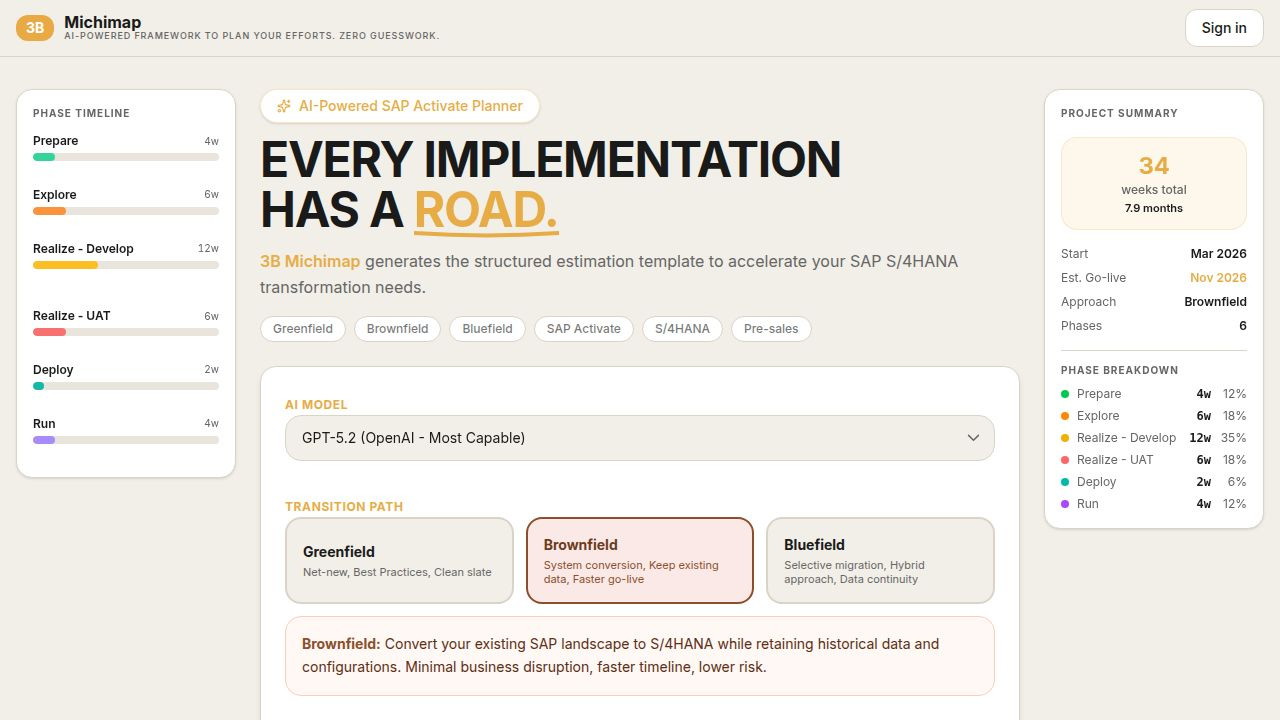
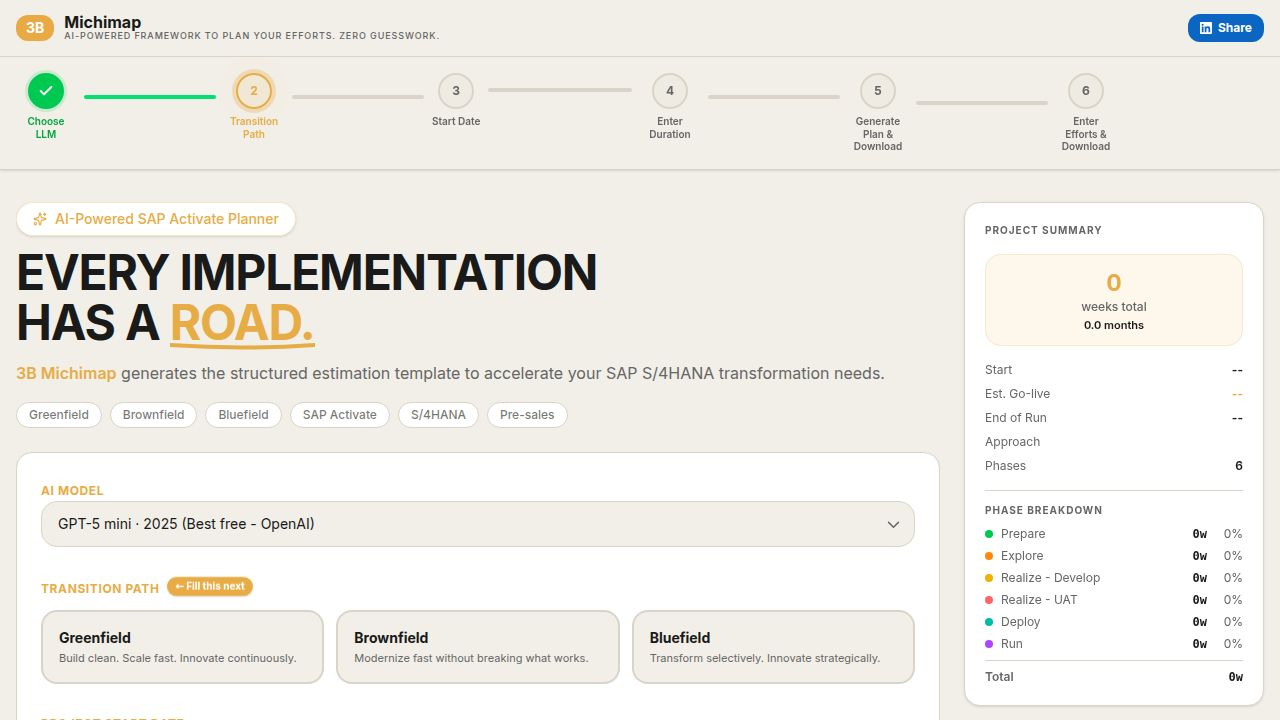
Add visual cues and step locking for guided project planning
Enhance UI to include pulsing active step indicators in the header and dynamic "Fill this next" badges on relevant form sections, while also implementing a hard lock on the Phase Durations section until a project start date is selected.

Replit-Commit-Author: Agent
Replit-Commit-Session-Id: a60236ce-8429-4dff-99cd-e8355c56ddc6
Replit-Commit-Checkpoint-Type: full_checkpoint
Replit-Commit-Event-Id: 16213692-5582-4c17-b918-09e82500bcb9
Replit-Commit-Screenshot-Url: https://storage.googleapis.com/screenshot-production-us-central1/cc1af301-8499-4159-9769-03e1a62c4dc9/a60236ce-8429-4dff-99cd-e8355c56ddc6/Mco4ZkI
Replit-Helium-Checkpoint-Created: true

diff --git a/artifacts/michimap/src/pages/home.tsx b/artifacts/michimap/src/pages/home.tsx
@@ -437,13 +437,18 @@ export default function Home() {
                   return (
                     <div key={step.id} className="flex items-center flex-1 min-w-0">
                       <div className="flex flex-col items-center gap-1.5 shrink-0">
-                        <div className={cn(
-                          "w-9 h-9 rounded-full flex items-center justify-center text-xs font-bold border-2 transition-all duration-300",
-                          done   ? "bg-green-500 border-green-500 text-white shadow-[0_0_0_3px_rgba(34,197,94,0.18)]"
-                                 : active ? "border-primary text-primary bg-primary/10 shadow-[0_0_0_3px_rgba(233,169,68,0.18)]"
-                                         : "border-border text-muted-foreground bg-muted/40"
-                        )}>
-                          {done ? <Check className="w-4 h-4 stroke-[3]" /> : step.id}
+                        <div className="relative">
+                          {active && (
+                            <span className="absolute inset-0 rounded-full animate-ping bg-primary/30 pointer-events-none" />
+                          )}
+                          <div className={cn(
+                            "relative w-9 h-9 rounded-full flex items-center justify-center text-xs font-bold border-2 transition-all duration-300",
+                            done   ? "bg-green-500 border-green-500 text-white shadow-[0_0_0_3px_rgba(34,197,94,0.18)]"
+                                   : active ? "border-primary text-primary bg-primary/10 shadow-[0_0_0_4px_rgba(233,169,68,0.30)]"
+                                           : "border-border text-muted-foreground bg-muted/40"
+                          )}>
+                            {done ? <Check className="w-4 h-4 stroke-[3]" /> : step.id}
+                          </div>
                         </div>
                         <span className={cn(
                           "text-[10px] font-semibold text-center leading-tight max-w-[60px] transition-colors duration-200",
@@ -539,7 +544,14 @@ export default function Home() {
 
                   {/* TRANSITION PATH */}
                   <div className="space-y-3">
-                    <label className="text-xs font-bold text-primary uppercase tracking-wider">Transition Path</label>
+                    <div className="flex items-center gap-2 flex-wrap">
+                      <label className="text-xs font-bold text-primary uppercase tracking-wider">Transition Path</label>
+                      {!transitionPath && (
+                        <span className="inline-flex items-center gap-1 text-[10px] font-bold text-white bg-primary px-2 py-0.5 rounded-full animate-bounce shadow-sm">
+                          ← Fill this next
+                        </span>
+                      )}
+                    </div>
                     <div className="grid grid-cols-3 gap-3">
                       {(Object.keys(TRANSITION_PATHS) as GeneratePlanRequestTransitionPath[]).map(pathId => {
                         const path = TRANSITION_PATHS[pathId];
@@ -580,14 +592,42 @@ export default function Home() {
 
                   {/* PROJECT START DATE */}
                   <div className="space-y-2">
-                    <label className="text-xs font-bold text-primary uppercase tracking-wider">Project Start Date</label>
+                    <div className="flex items-center gap-2 flex-wrap">
+                      <label className="text-xs font-bold text-primary uppercase tracking-wider">Project Start Date</label>
+                      {transitionPath && !projectStartDate && (
+                        <span className="inline-flex items-center gap-1 text-[10px] font-bold text-white bg-primary px-2 py-0.5 rounded-full animate-bounce shadow-sm">
+                          ← Fill this next
+                        </span>
+                      )}
+                    </div>
                     <CalendarPicker value={projectStartDate} onChange={setProjectStartDate} />
                   </div>
 
                   {/* PHASE DURATIONS */}
                   <div className="space-y-3">
-                    <label className="text-xs font-bold text-primary uppercase tracking-wider">Phase Durations (Weeks)</label>
-                    <div className="grid grid-cols-2 gap-3">
+                    <div className="flex items-center gap-2 flex-wrap">
+                      <label className="text-xs font-bold text-primary uppercase tracking-wider">Phase Durations (Weeks)</label>
+                      {projectStartDate && !generatedResult && (
+                        <span className="inline-flex items-center gap-1 text-[10px] font-bold text-white bg-primary px-2 py-0.5 rounded-full animate-bounce shadow-sm">
+                          ← Fill this next
+                        </span>
+                      )}
+                    </div>
+
+                    {/* LOCK OVERLAY — shown when start date not yet picked */}
+                    {!projectStartDate && (
+                      <div className="flex items-start gap-3 px-4 py-3.5 rounded-xl border-2 border-dashed border-amber-400 bg-amber-50 dark:bg-amber-950/20">
+                        <span className="text-xl leading-none mt-0.5 shrink-0">🔒</span>
+                        <div>
+                          <p className="text-sm font-bold text-amber-700 dark:text-amber-400">Select a start date first</p>
+                          <p className="text-xs text-amber-600/80 dark:text-amber-400/70 mt-0.5 leading-snug">
+                            Please pick your Project Start Date above (Step 3) before setting phase durations.
+                          </p>
+                        </div>
+                      </div>
+                    )}
+
+                    <div className={cn("grid grid-cols-2 gap-3", !projectStartDate && "opacity-40 pointer-events-none select-none blur-[1px]")}>
                       {(Object.entries(phases) as [keyof typeof phases, any][]).map(([key, data]) => {
                         const meta = PHASES_META[key];
                         const isOptional = key === "discover";
